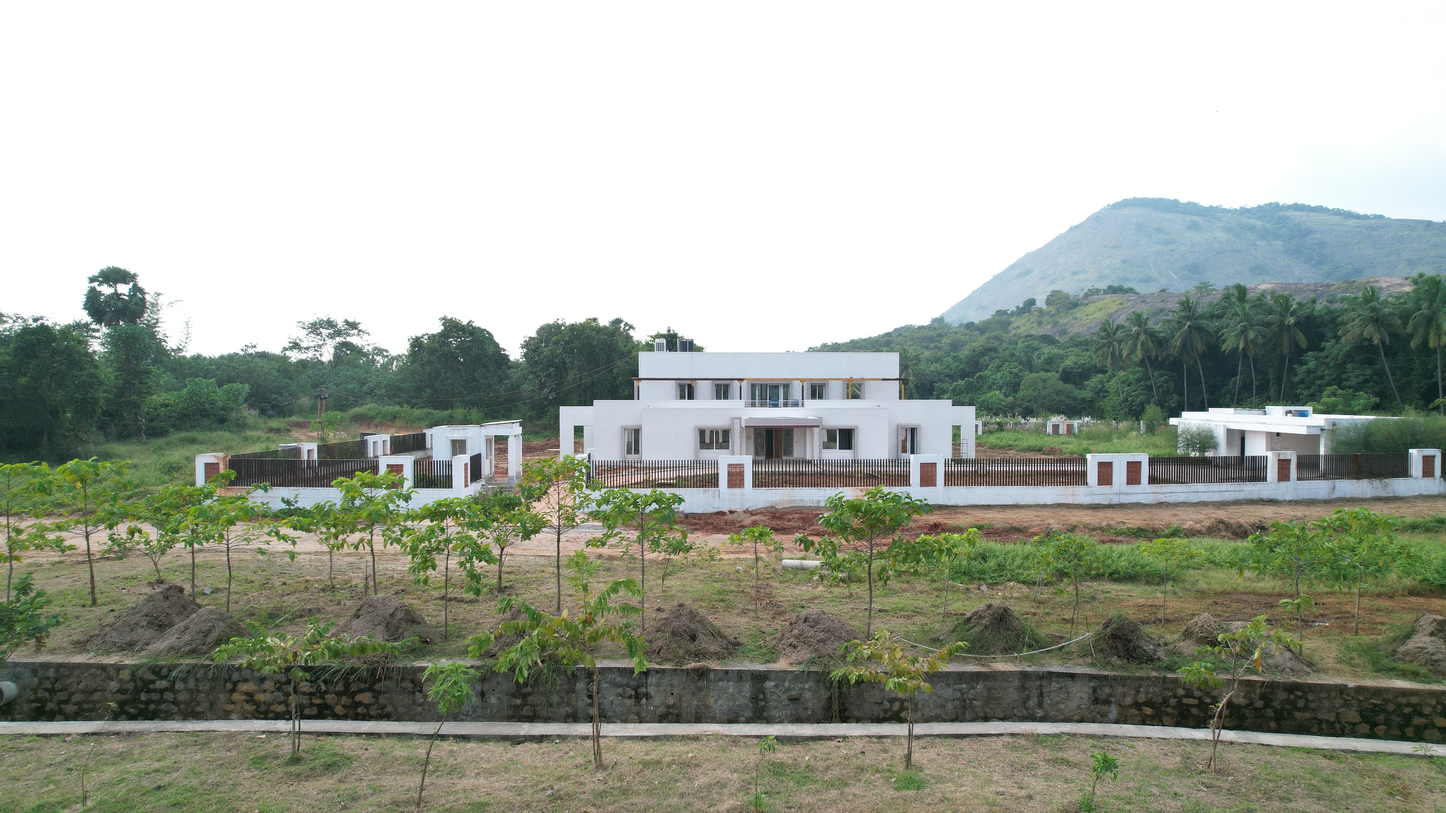
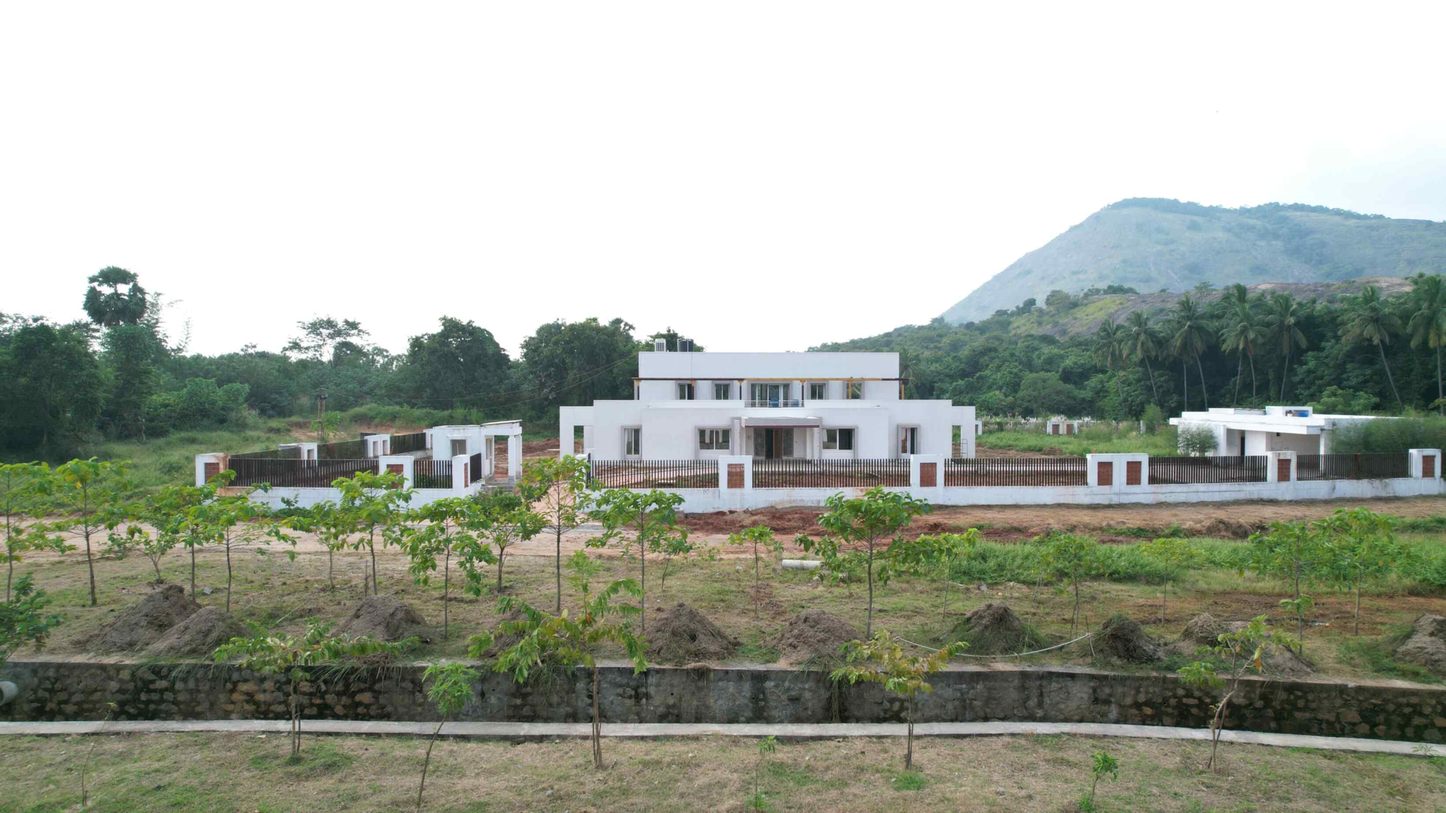
make images compressed

diff --git a/_includes/views/banner.html b/_includes/views/banner.html
@@ -100,9 +100,7 @@
           })();
         </script>
       {%- else -%}
-        <div media="screen and (min-width: 900px)" style="background-image: url({{ banner_image }})"></div>
-        <div media="screen and (max-width: 600px)" style="background-image:
-		url({{ banner_image }}.mobile.jpeg)"></div>
+        <div  style="background-image: url({{ banner_image }})"></div>
         <img class="img-placeholder" src="{{ banner_image }}">
       {%- endif -%}
     </div>

diff --git a/assets/css/main.scss b/assets/css/main.scss
@@ -52,4 +52,5 @@ $selection-background-color: unquote("{{ site.selection.background_color }}");
   $selection-background-color: rgba(invert($brand-color), 0.3);
 }
 
+
 @import "yat";
